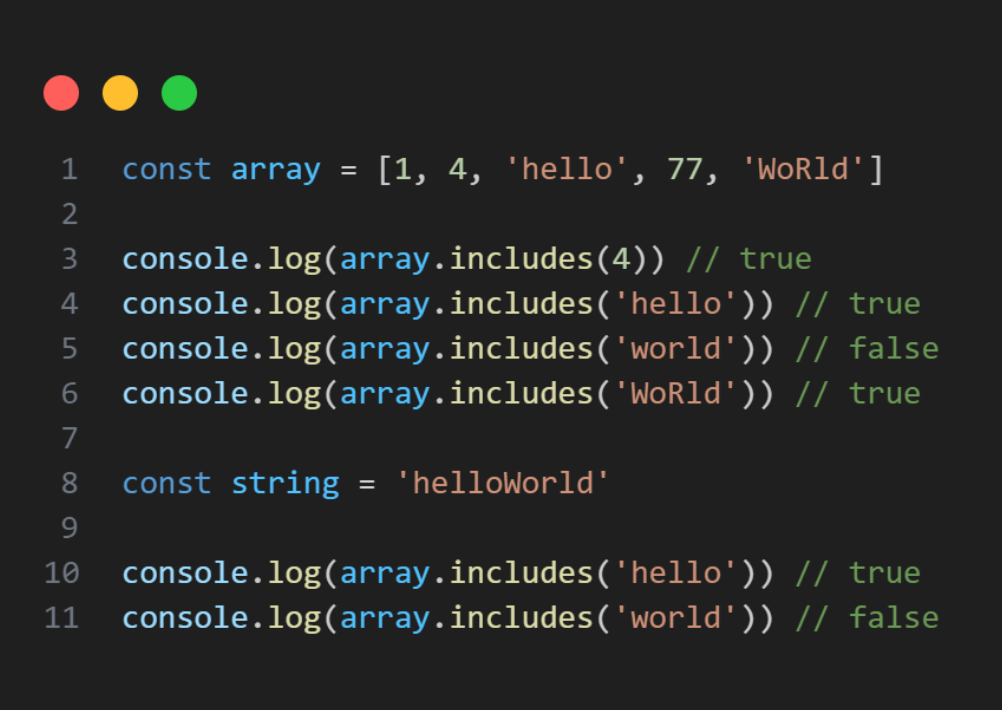
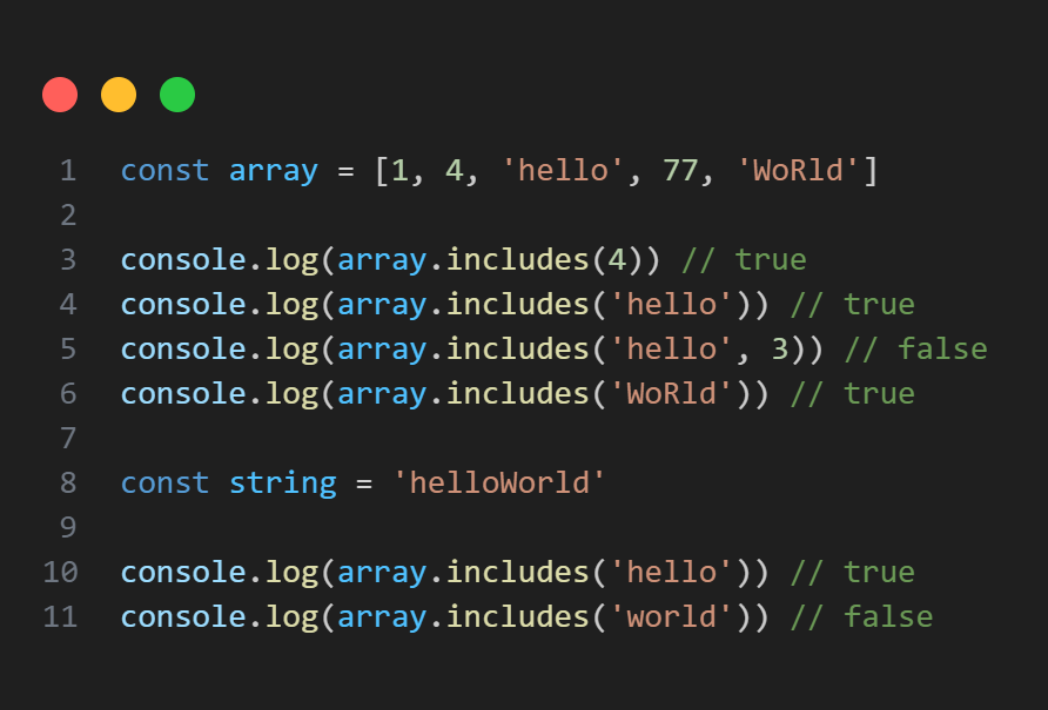
v16.5

diff --git a/src/components/App/App.js b/src/components/App/App.js
@@ -61,7 +61,9 @@ import conditional_rendering from '../../images/conditional_rendering.png'
 import discriminant_formula from '../../images/discriminant_formula.png'
 import node_email_sender from '../../images/node_email_sender.png'
 import includesMethod from '../../images/includes.png'
-import destructurization from '../../images/destructurization.jpg'
+import destructurization from '../../images/destructurization.png'
+import pushMethod from '../../images/pushMethod.png'
+import popMethod from '../../images/popMethod.png'
 
 const content = [
   {image: filterMethod, caption: {en: 'Array.prototype.filter()', ua: 'Array.prototype.filter()'}, text: {en: 'filter is a method that creates a new unique array with specific criteria based on the selected array', ua: 'filter - це метод, що створює новий унікальний масив з чіткими критеріями на основі обранного масиву'}, link: {en: 'https://developer.mozilla.org/en/docs/Web/JavaScript/Reference/Global_Objects/Array/filter', ua: 'https://developer.mozilla.org/ru/docs/Web/JavaScript/Reference/Global_Objects/Array/filter'}, type: 'method', code: 
@@ -889,7 +891,7 @@ const array = [1, 4, 'hello', 77, 'WoRld']
 
 console.log(array.includes(4))
 console.log(array.includes('hello'))
-console.log(array.includes('world'))
+console.log(array.includes('hello', 3))
 console.log(array.includes('WoRld'))
 
 const string = 'helloWorld'
@@ -908,7 +910,27 @@ const person = {
 const {name, age} = person
 
 console.log(name)
-console.log(age)`}
+console.log(age)`},
+{image: pushMethod, caption: {en: 'Array.prototype.push()', ua: 'Array.prototype.push()'}, text: {en: 'The push() method adds one or more elements to the end of the array and returns the new length of the array', ua: 'Метод push() додає один або більше елементів до кінця масиву і повертає нову довжину масиву'}, link: {en: 'https://developer.mozilla.org/en-US/docs/Web/JavaScript/Reference/Global_Objects/Array/push', ua: 'https://developer.mozilla.org/ru/docs/Web/JavaScript/Reference/Global_Objects/Array/push'}, type: 'method', code:
+`
+let array = [1, 1, 2, 3, 5, 8]
+
+array.push(13)
+console.log(array)
+
+array.push(21, 34, 55)
+console.log(array)
+
+console.log(array.push())`},
+{image: popMethod, caption: {en: 'Array.prototype.pop()', ua: 'Array.prototype.pop()'}, text: {en: 'The pop() method removes the last element from the array and returns its value. The last element of the array, or undefined if the array is empty', ua: 'Метод pop() видаляє останній елемент з масиву та повертає його значення. Останній елемент масиву або undefined, якщо масив порожній'}, link: {en: 'https://developer.mozilla.org/en-US/docs/Web/JavaScript/Reference/Global_Objects/Array/pop#%D0%B2%D0%BE%D0%B7%D0%B2%D1%80%D0%B0%D1%89%D0%B0%D0%B5%D0%BC%D0%BE%D0%B5_%D0%B7%D0%BD%D0%B0%D1%87%D0%B5%D0%BD%D0%B8%D0%B5', ua: 'https://developer.mozilla.org/ru/docs/Web/JavaScript/Reference/Global_Objects/Array/pop#%D0%B2%D0%BE%D0%B7%D0%B2%D1%80%D0%B0%D1%89%D0%B0%D0%B5%D0%BC%D0%BE%D0%B5_%D0%B7%D0%BD%D0%B0%D1%87%D0%B5%D0%BD%D0%B8%D0%B5'}, type: 'method', code:
+`
+let array = [1, 1, 2, 3, 5, 8]
+
+array.pop()
+console.log(array)
+
+console.log(array.pop())
+console.log(array)`},
 ]
 
 const languages = [

diff --git a/README.md b/README.md
@@ -204,3 +204,7 @@ Some addictions
 ### `v16.4`
 
 Some addictions
+
+### `v16.5`
+
+Some addictions
